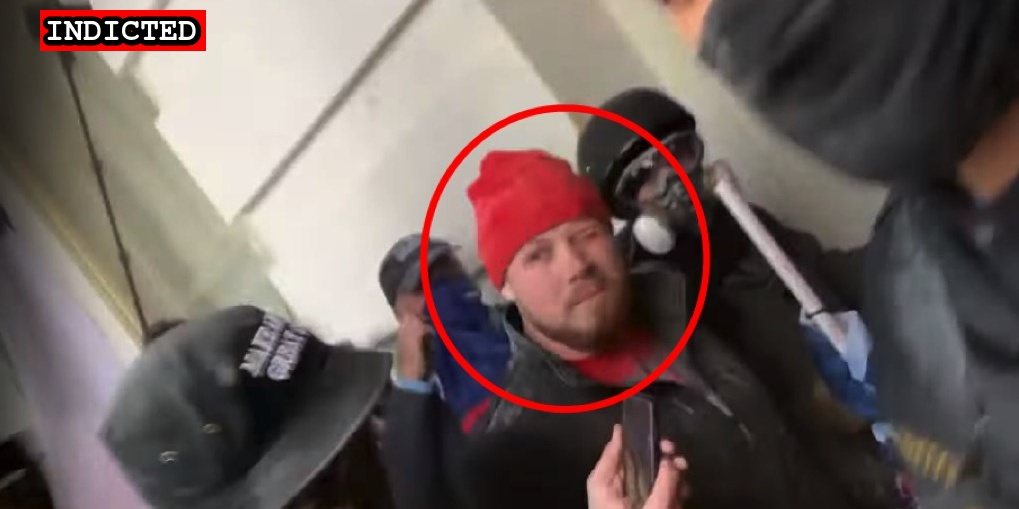
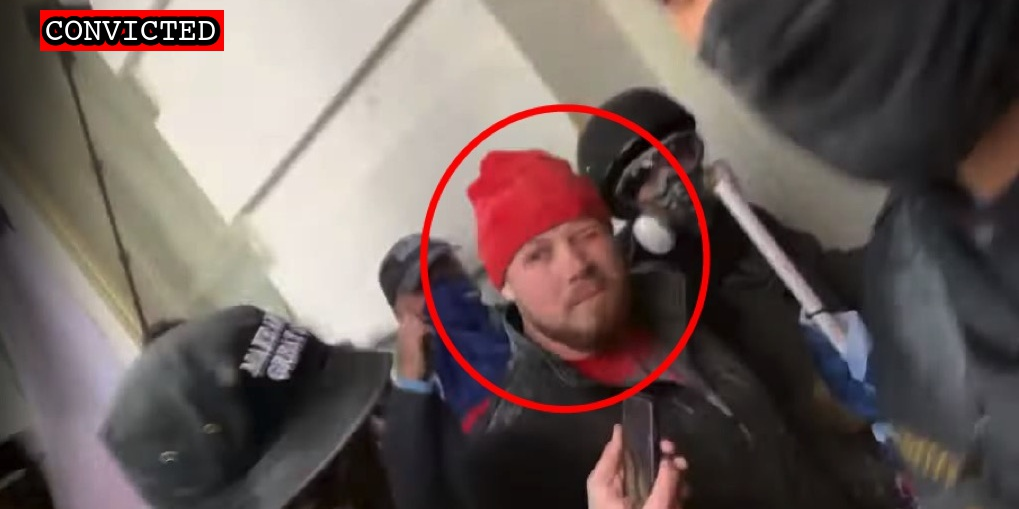
Latest import

Changed region(s): [[0.0304, 0.0, 0.2434, 0.1179]]

diff --git a/docs/_suspects/christian-cortez.md b/docs/_suspects/christian-cortez.md
@@ -4,16 +4,18 @@ lastName: Cortez
 hashtag: ChristianCortez
 aka:
 residence: Texas
-status: Indicted
+status: Convicted
 date: 2021-03-12
 charged: 2021-03-12
 indicted: 2021-04-23
-convicted:
+convicted: 2022-05-25
+acquitted:
 sentenced:
 dismissed:
 deceased:
-plea_hearing:
-sentencing:
+plea_hearing: 2022-05-25
+trial_date:
+sentencing: 2022-08-31
 age:
 occupation:
 affiliations:
@@ -34,8 +36,17 @@ published: true
 caseNumber: 1:21-cr-317
 videos:
 charges:
+  - code: 18 USC § 231(a)(3)
+    title: Civil Disorder
+    url: https://www.law.cornell.edu/uscode/text/18/231
+    felony: true
 sentence:
 ---
+
 - [News Report](https://www.khou.com/article/news/nation-world/details-houston-residents-arrested-capitol-riots/285-0fb5c466-4f23-4131-a53f-5b3a6fd508c6)
 - [Statement of Facts](https://www.justice.gov/usao-dc/case-multi-defendant/file/1390346/download)
 - [Indictment](https://www.justice.gov/usao-dc/case-multi-defendant/file/1390351/download)
+- [Information](https://www.justice.gov/usao-dc/case-multi-defendant/file/1508291/download)
+- [Plea Agreement](https://www.justice.gov/usao-dc/case-multi-defendant/file/1508296/download)
+- [Statement of Offense](https://www.justice.gov/usao-dc/case-multi-defendant/file/1508306/download)
+- [DOJ Press Release (Guilty Plea)](https://www.justice.gov/usao-dc/pr/texas-man-pleads-guilty-felony-charge-actions-during-jan-6-capitol-breach)
